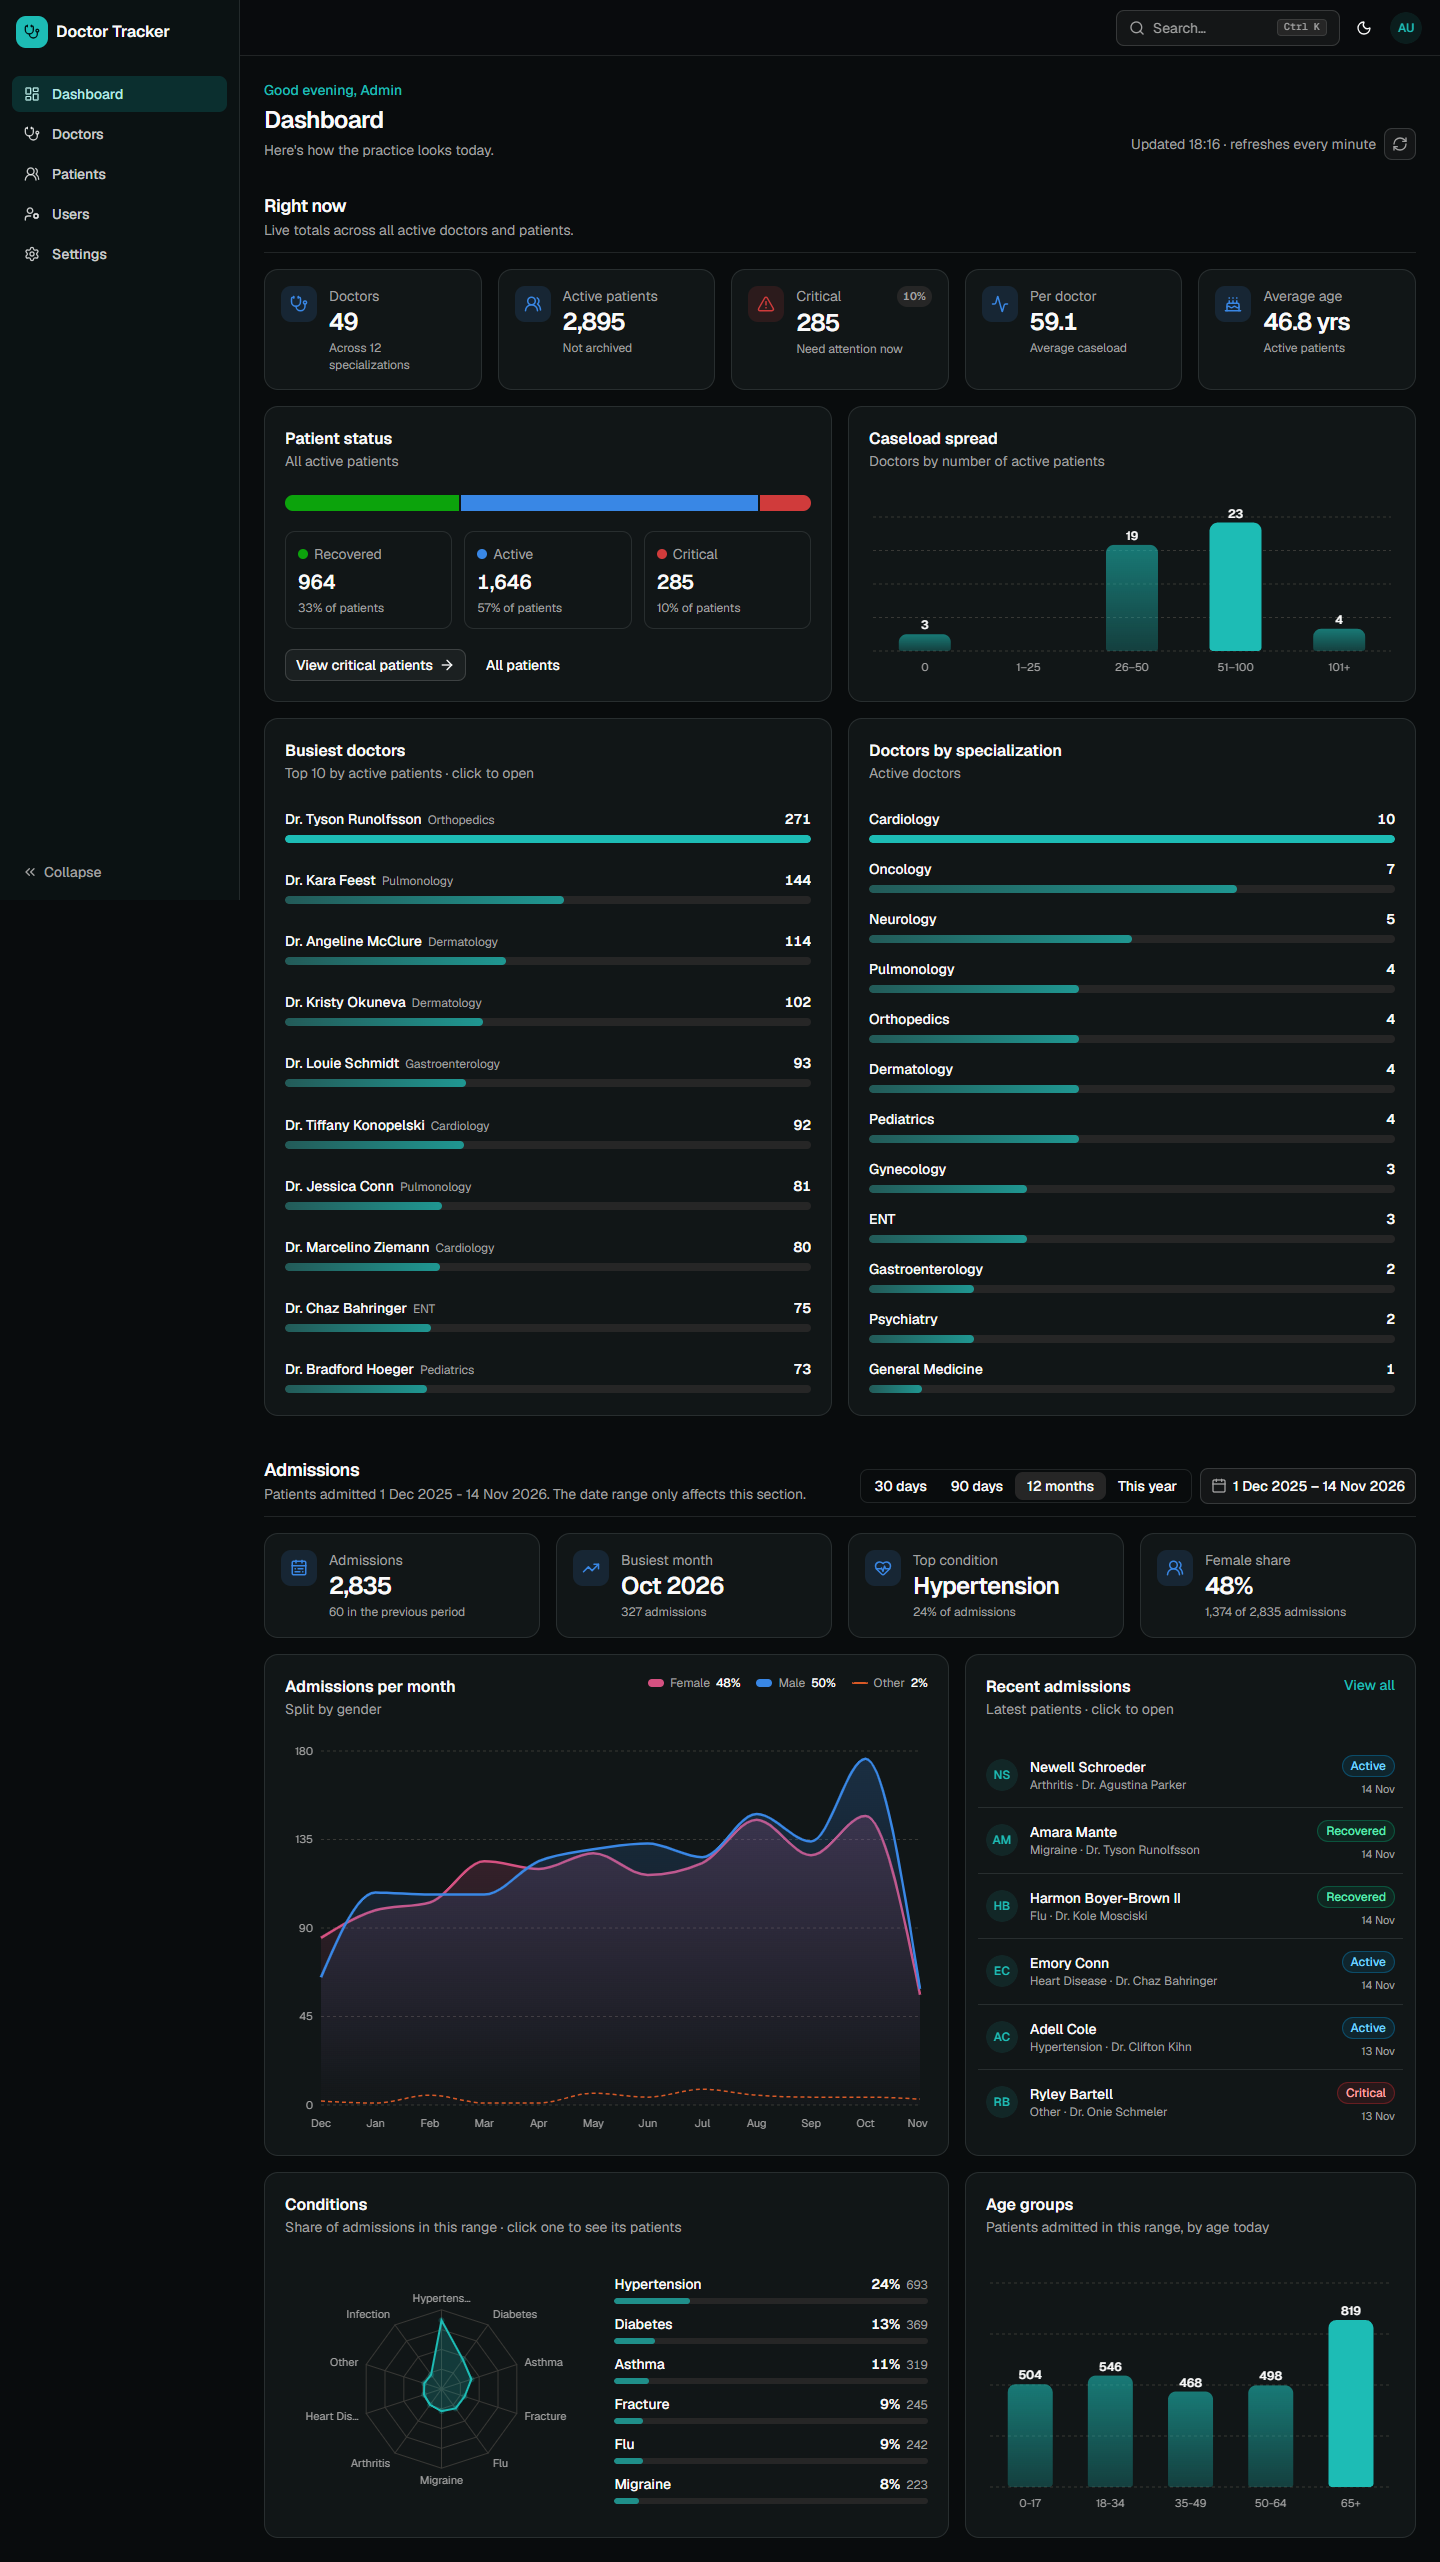
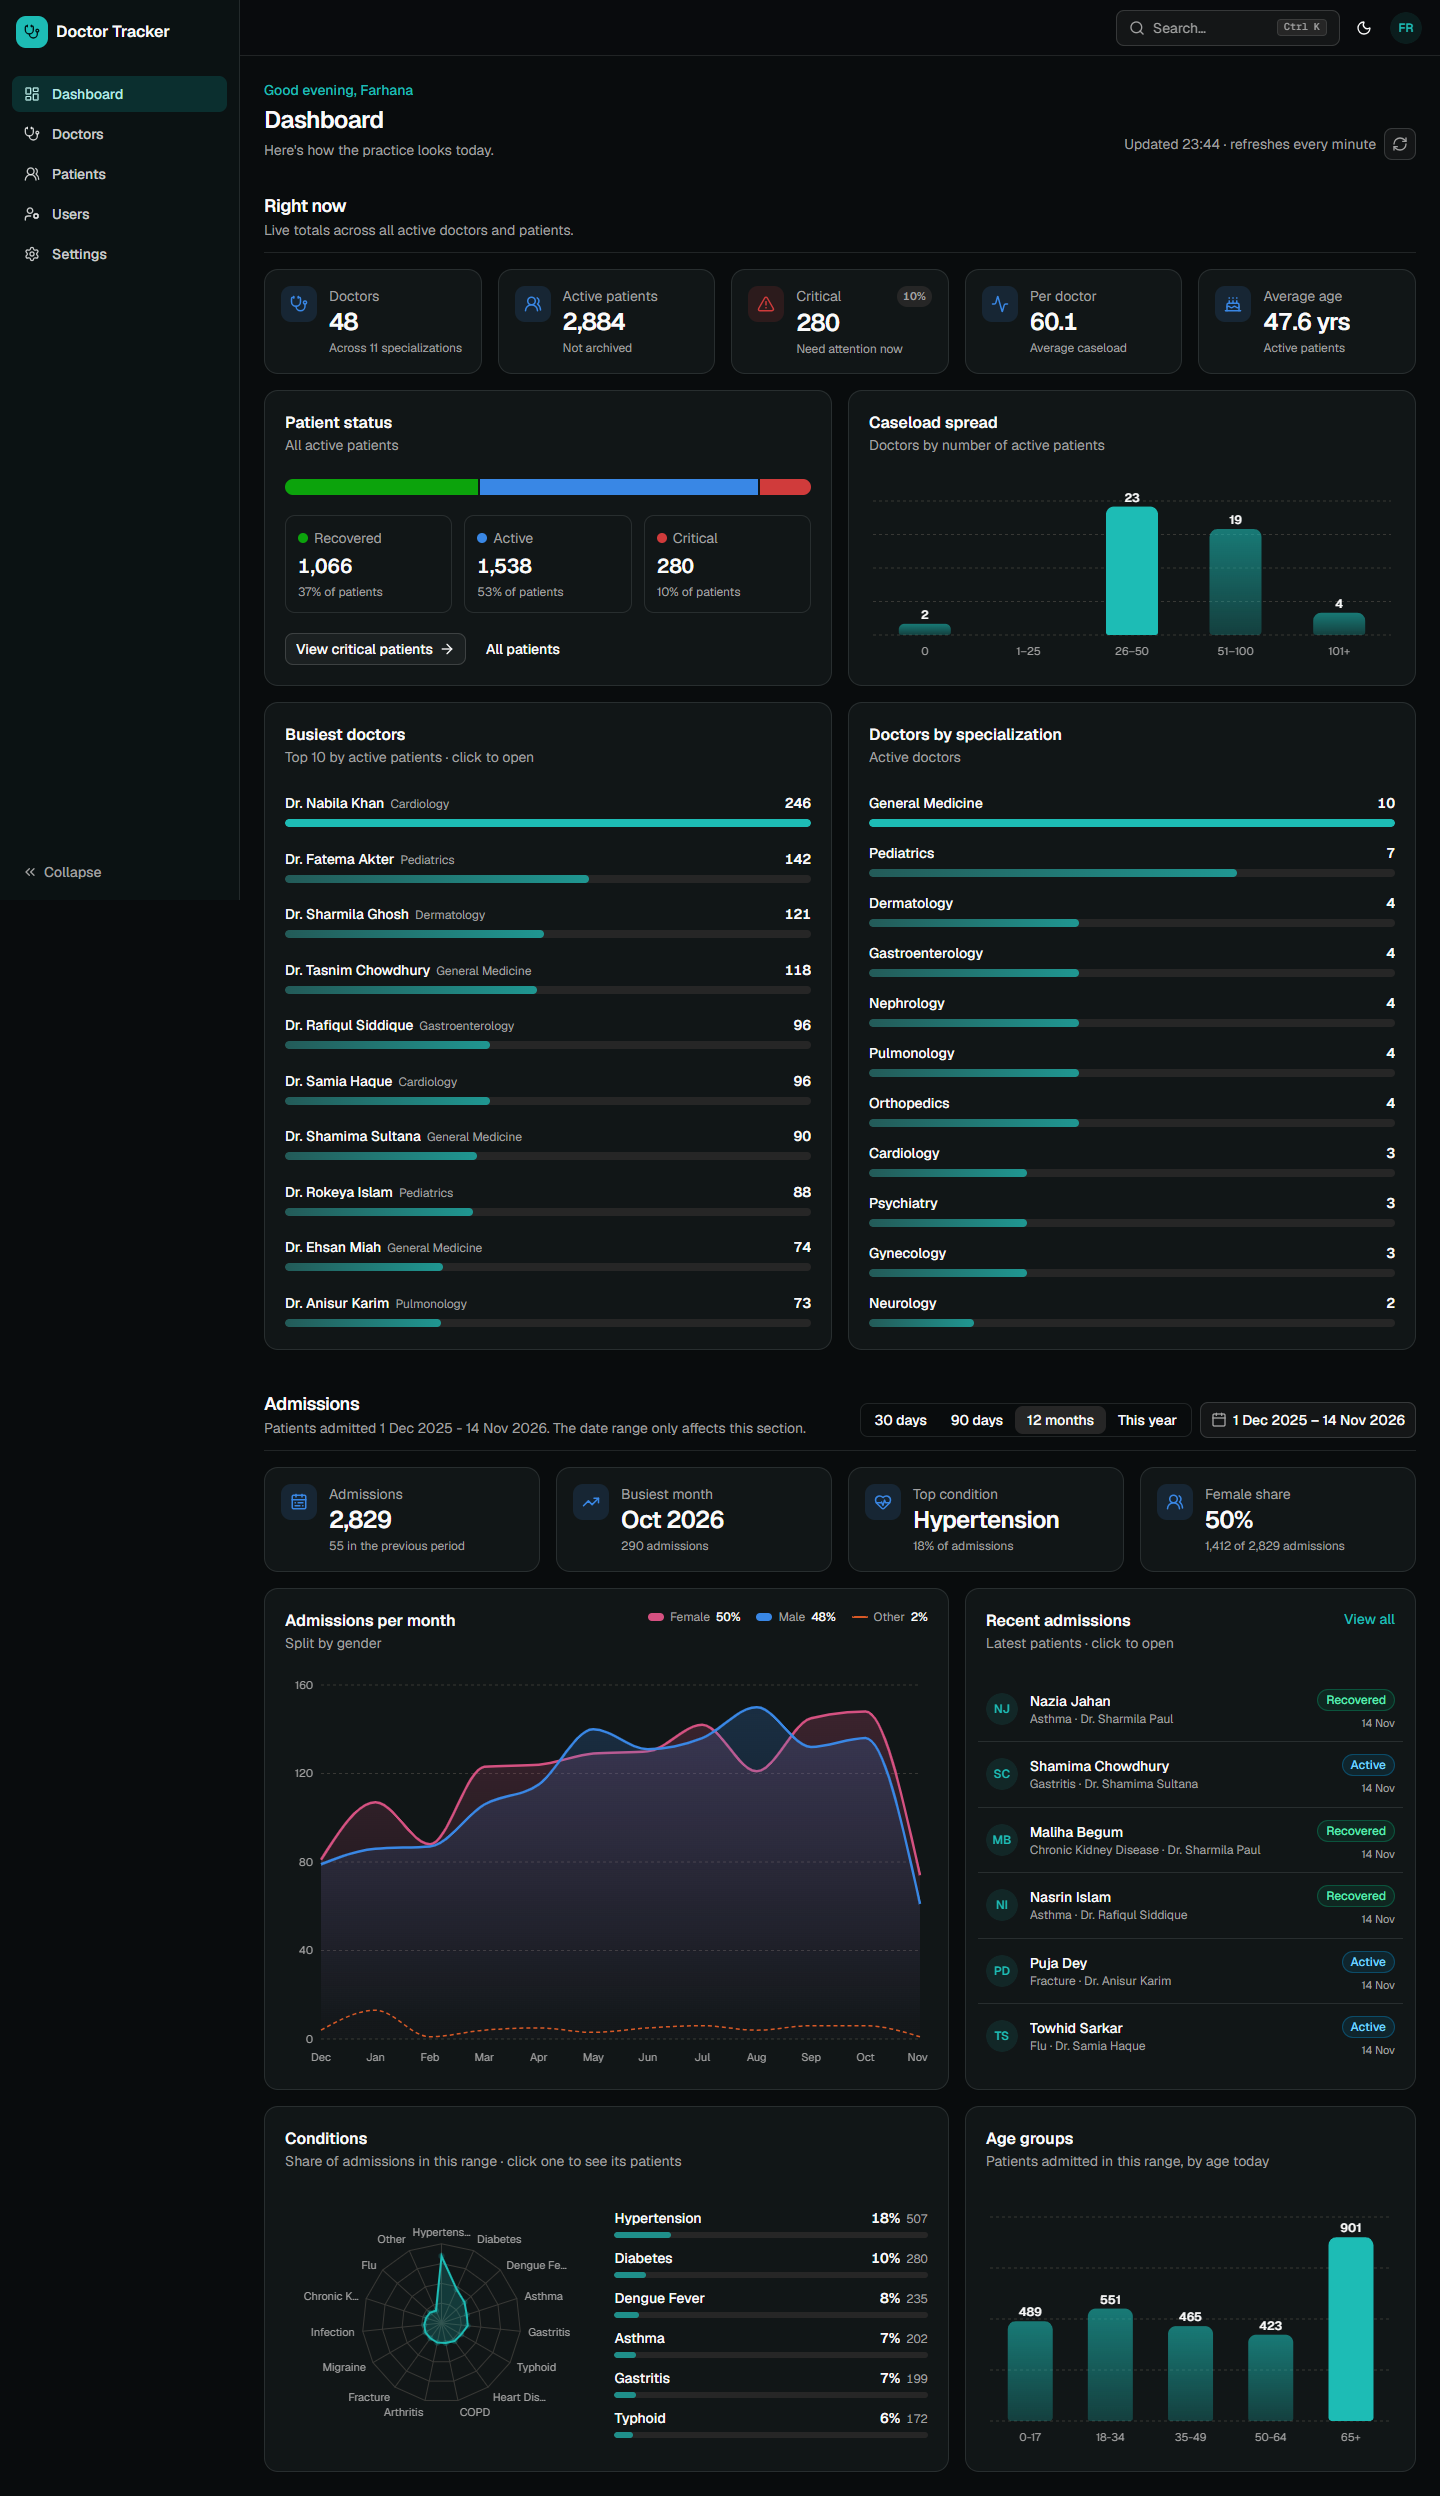
docs: refresh screenshots and describe the security measures

diff --git a/README.md b/README.md
@@ -33,7 +33,7 @@ Requires Node 24 (`nvm use` reads `.nvmrc`) and Docker.
    cp .env.example .env    # works as-is with the local database
    docker compose up -d    # MongoDB 8 as a single-node replica set
    npm install
-   npm run seed            # admin + staff users, 50 doctors, 3,000 patients
+   npm run seed            # Bangladeshi demo data: admin + staff, 50 doctors, 3,000 patients
    npm run dev             # http://localhost:4000
    ```
 3. Start the client (in `doctor-tracker-client`):
@@ -57,7 +57,8 @@ flowchart LR
 
 - **Sign-in:** the browser posts to `/api/auth/login` on the Vercel domain; Next.js rewrites it to
   the API, which checks the password and sets a session cookie. `proxy.ts` sends anyone without the
-  cookie to `/login`.
+  cookie to `/login`, and back to the page they asked for afterwards (same-origin paths only).
+  Changing the password signs every session out, so the app asks you to sign in again.
 - **Lists:** filters, sort and page live in the URL. Changing one changes the TanStack Query key, which
   fetches `/api/doctors?...`; the API runs one indexed query plus a count and returns a page.
 - **Changes:** an edit or archive updates the screen straight away, calls the API (patient writes and
@@ -98,6 +99,15 @@ Other choices, briefly: **archive instead of delete** (the app moves a doctor's 
 archiving them); a **denormalised `patientCount`** kept in sync by transactions; **case-insensitive
 "contains" search** on lower-cased fields, with every list index starting with `isArchived` (details and
 `explain()` results in the server README).
+
+### Script injection
+
+User data is only ever rendered as React text, never as HTML, and links built from stored values have
+fixed `mailto:`, `tel:` or `/doctors/<id>` prefixes. On top of that, `proxy.ts` sends a strict
+Content-Security-Policy with a fresh nonce per request: only scripts carrying that nonce (Next.js adds
+it to its own) can run, so injected markup couldn't execute even if it reached a page. The API also
+rejects `<` and `>` in names and other one-line fields. Styles still allow `'unsafe-inline'`, because
+Radix and Recharts position elements with style attributes.
 
 ## Scalability
 
